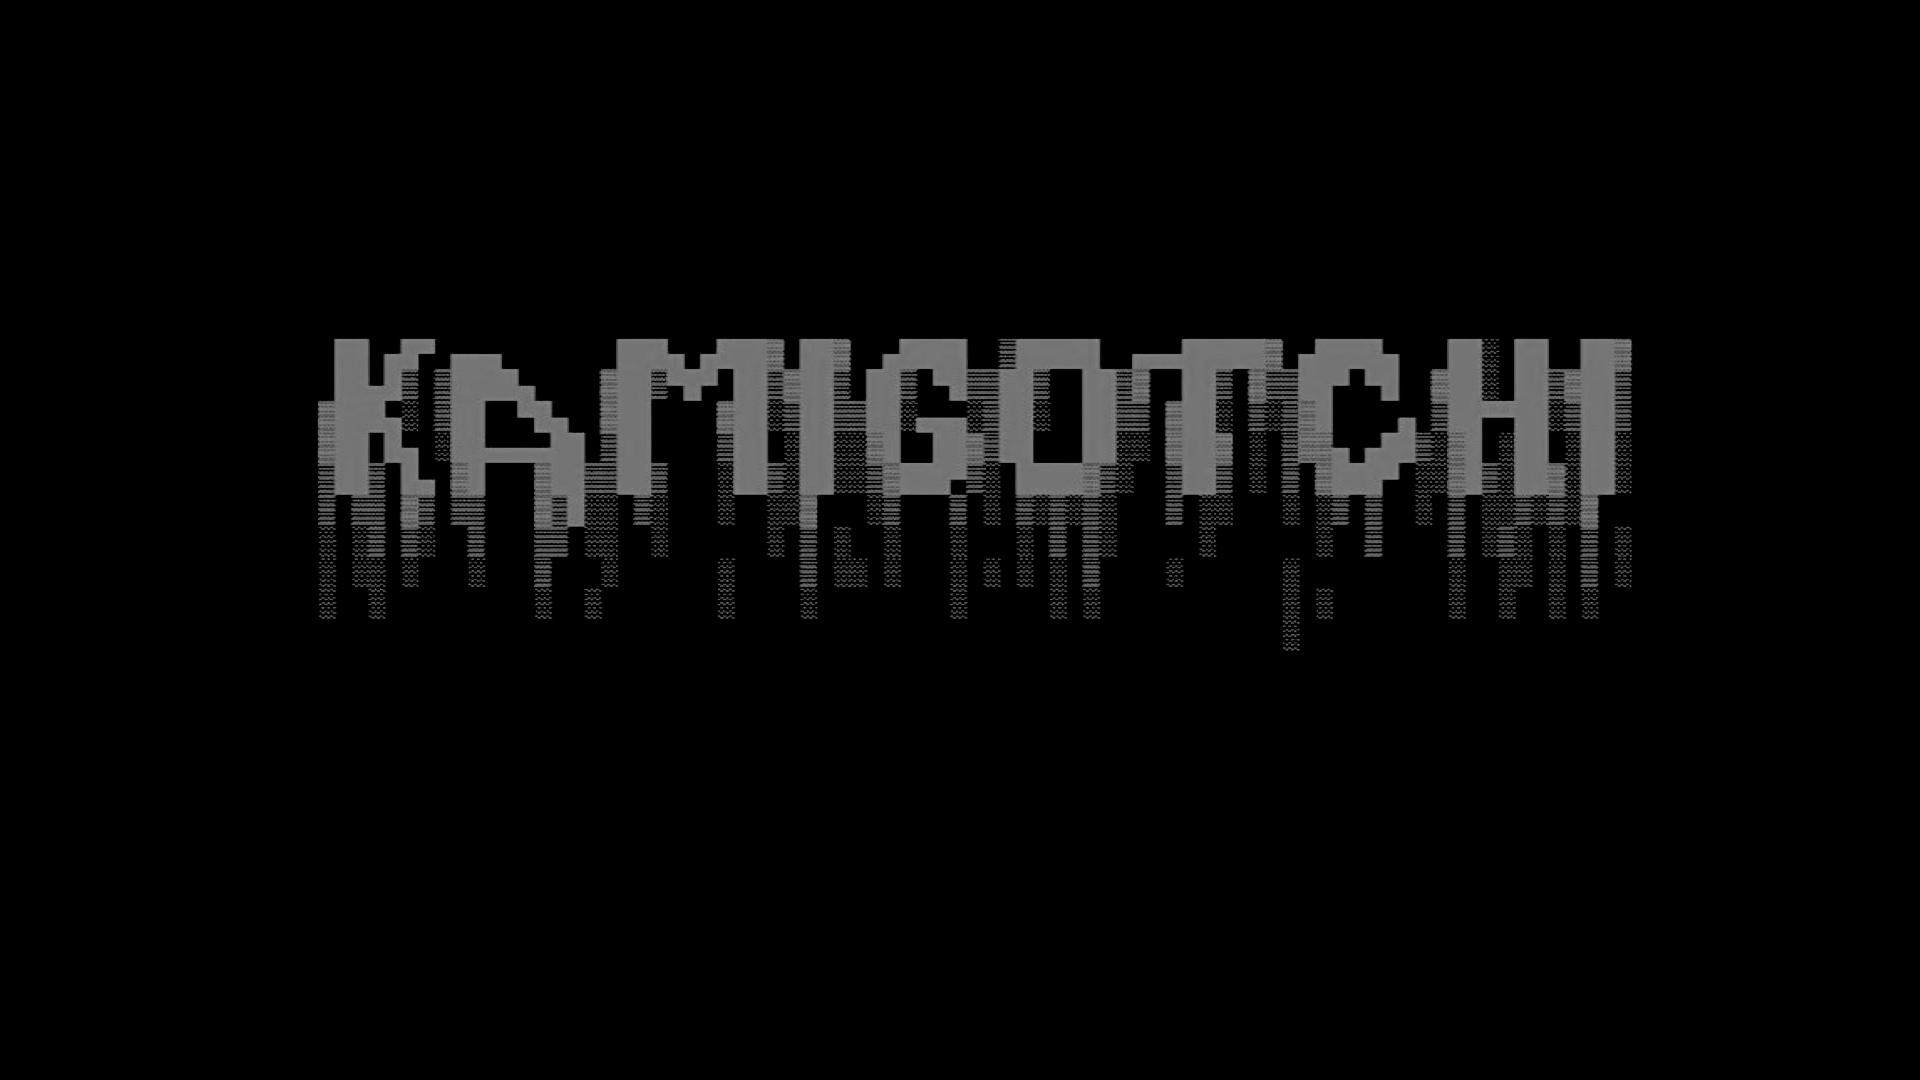
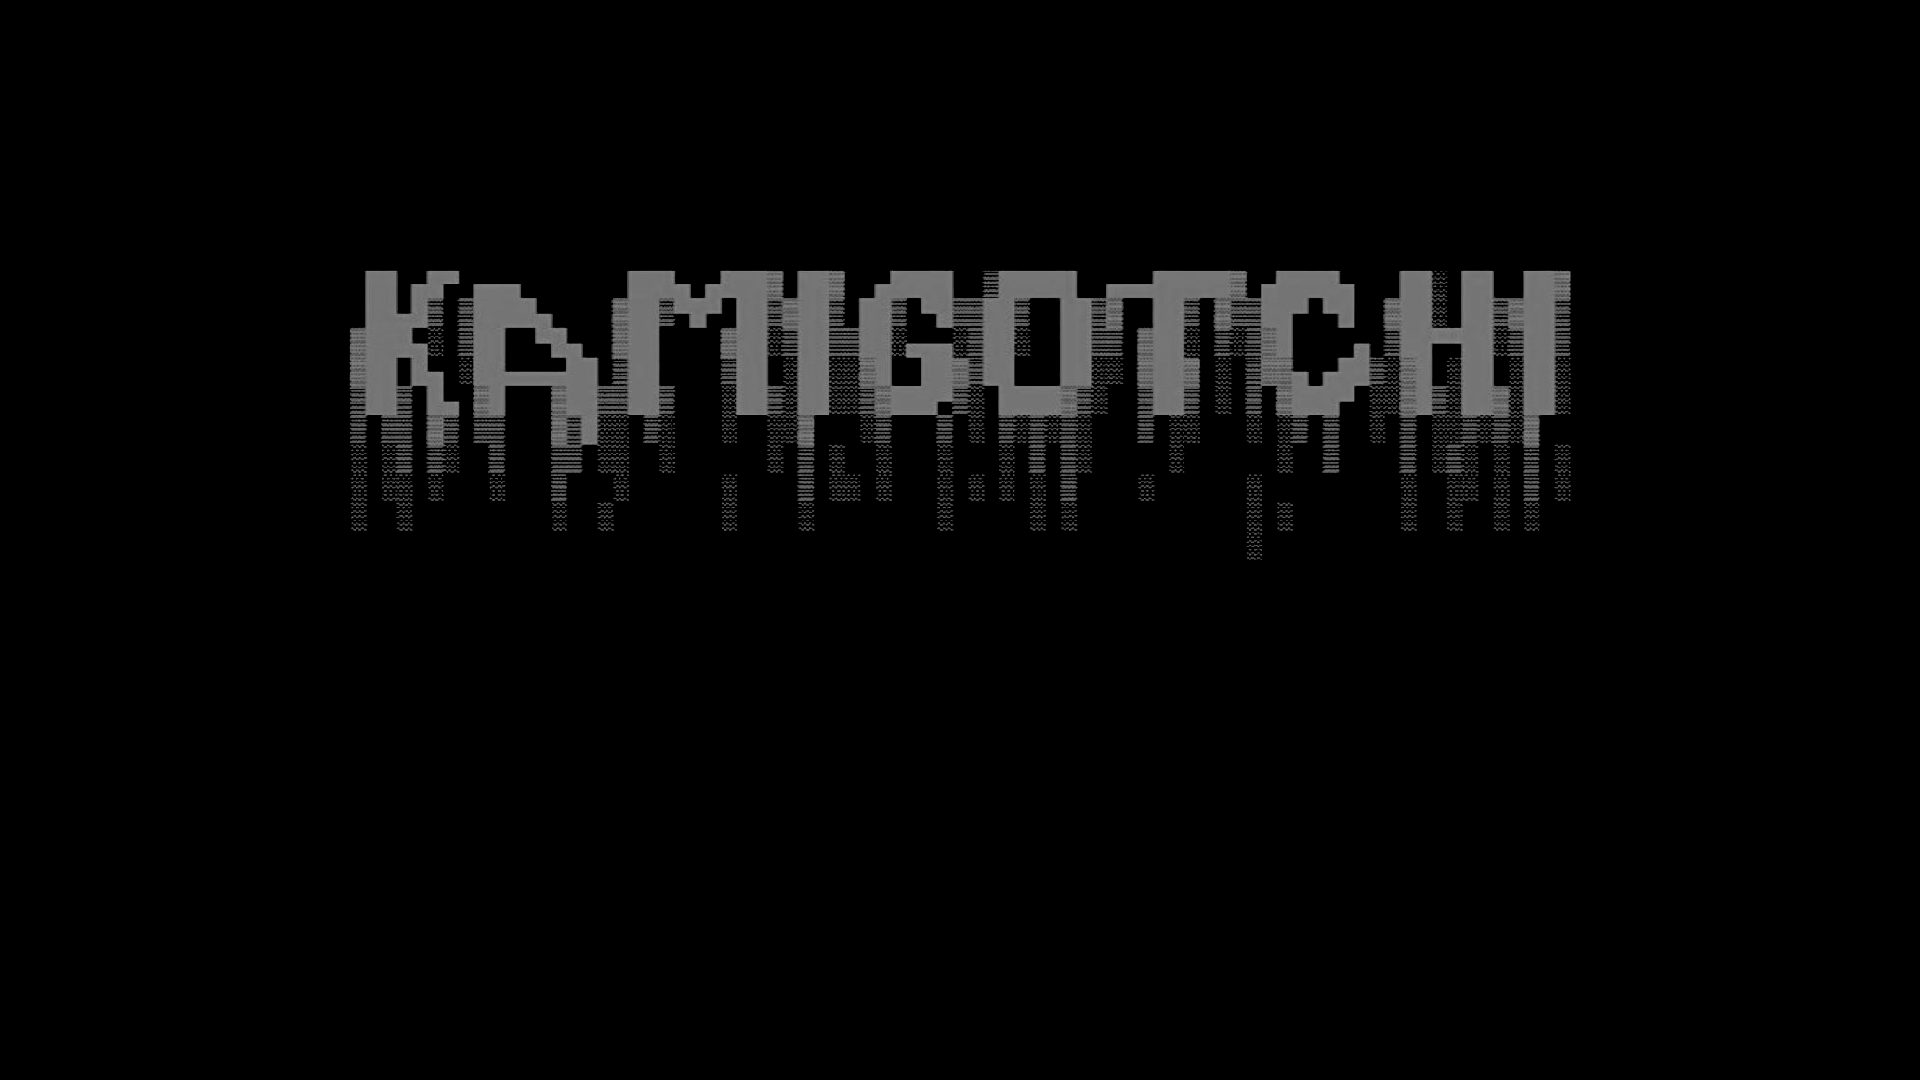
swap out loading screen photos (#478)
adjusts them to standardize sizing and alignment

Changed region(s): [[0.1562, 0.2444, 0.875, 0.5806], [0.6562, 0.5194, 0.6875, 0.5806]]

diff --git a/packages/client/src/layers/react/engine/components/BootScreen.tsx b/packages/client/src/layers/react/engine/components/BootScreen.tsx
@@ -54,7 +54,7 @@ const Image = styled.img`
 const Status = styled.div`
   color: #fff;
   position: absolute;
-  bottom: 30vh;
+  bottom: 35vh;
   width: 100%;
 
   text-align: center;
